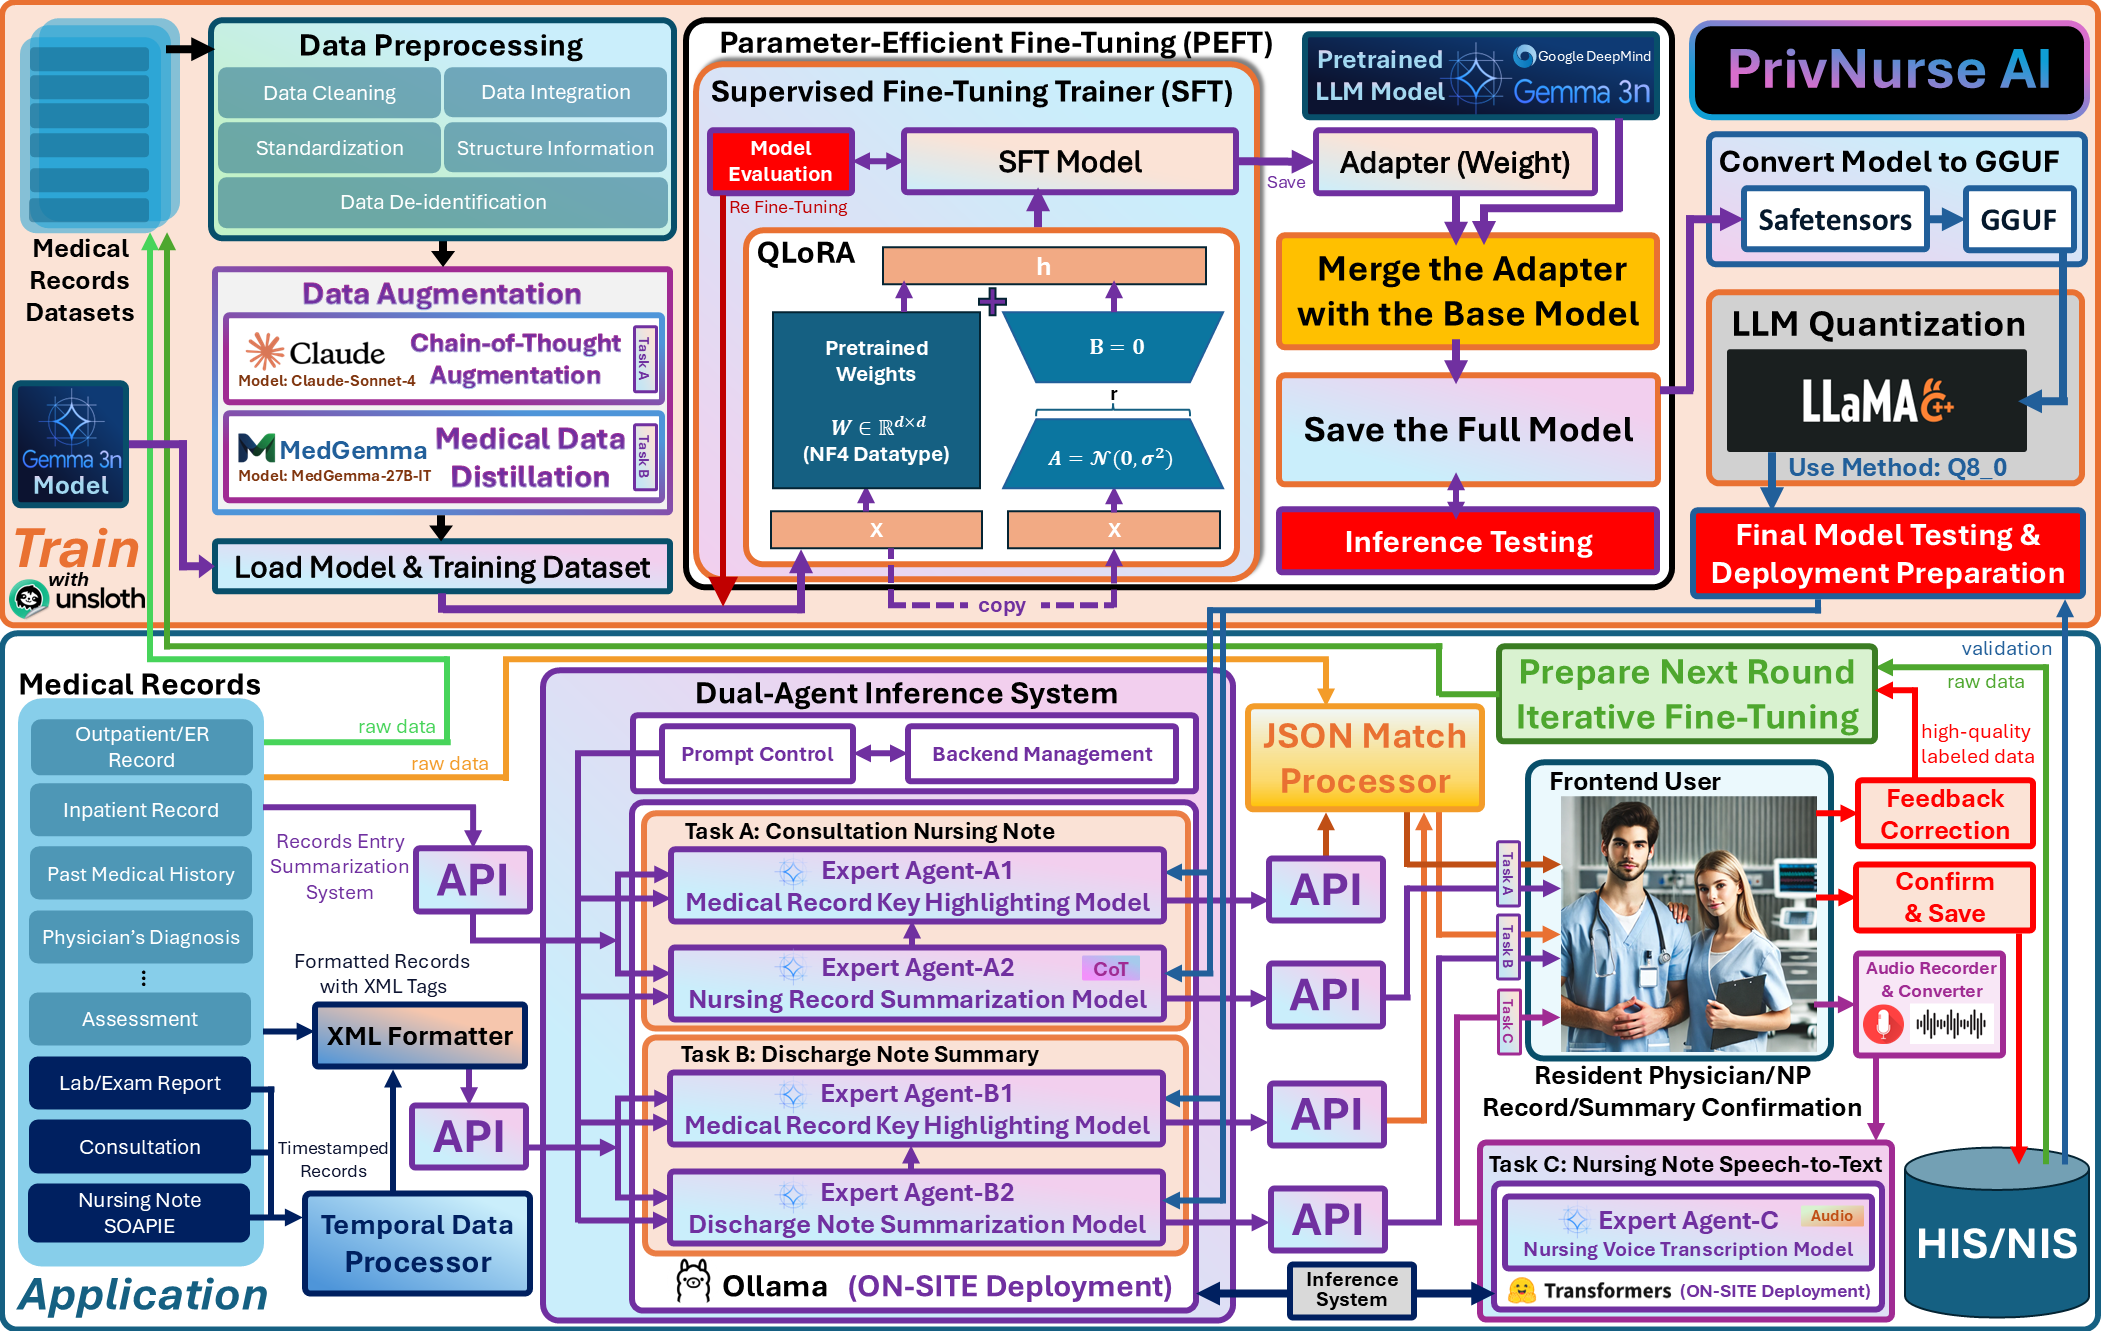
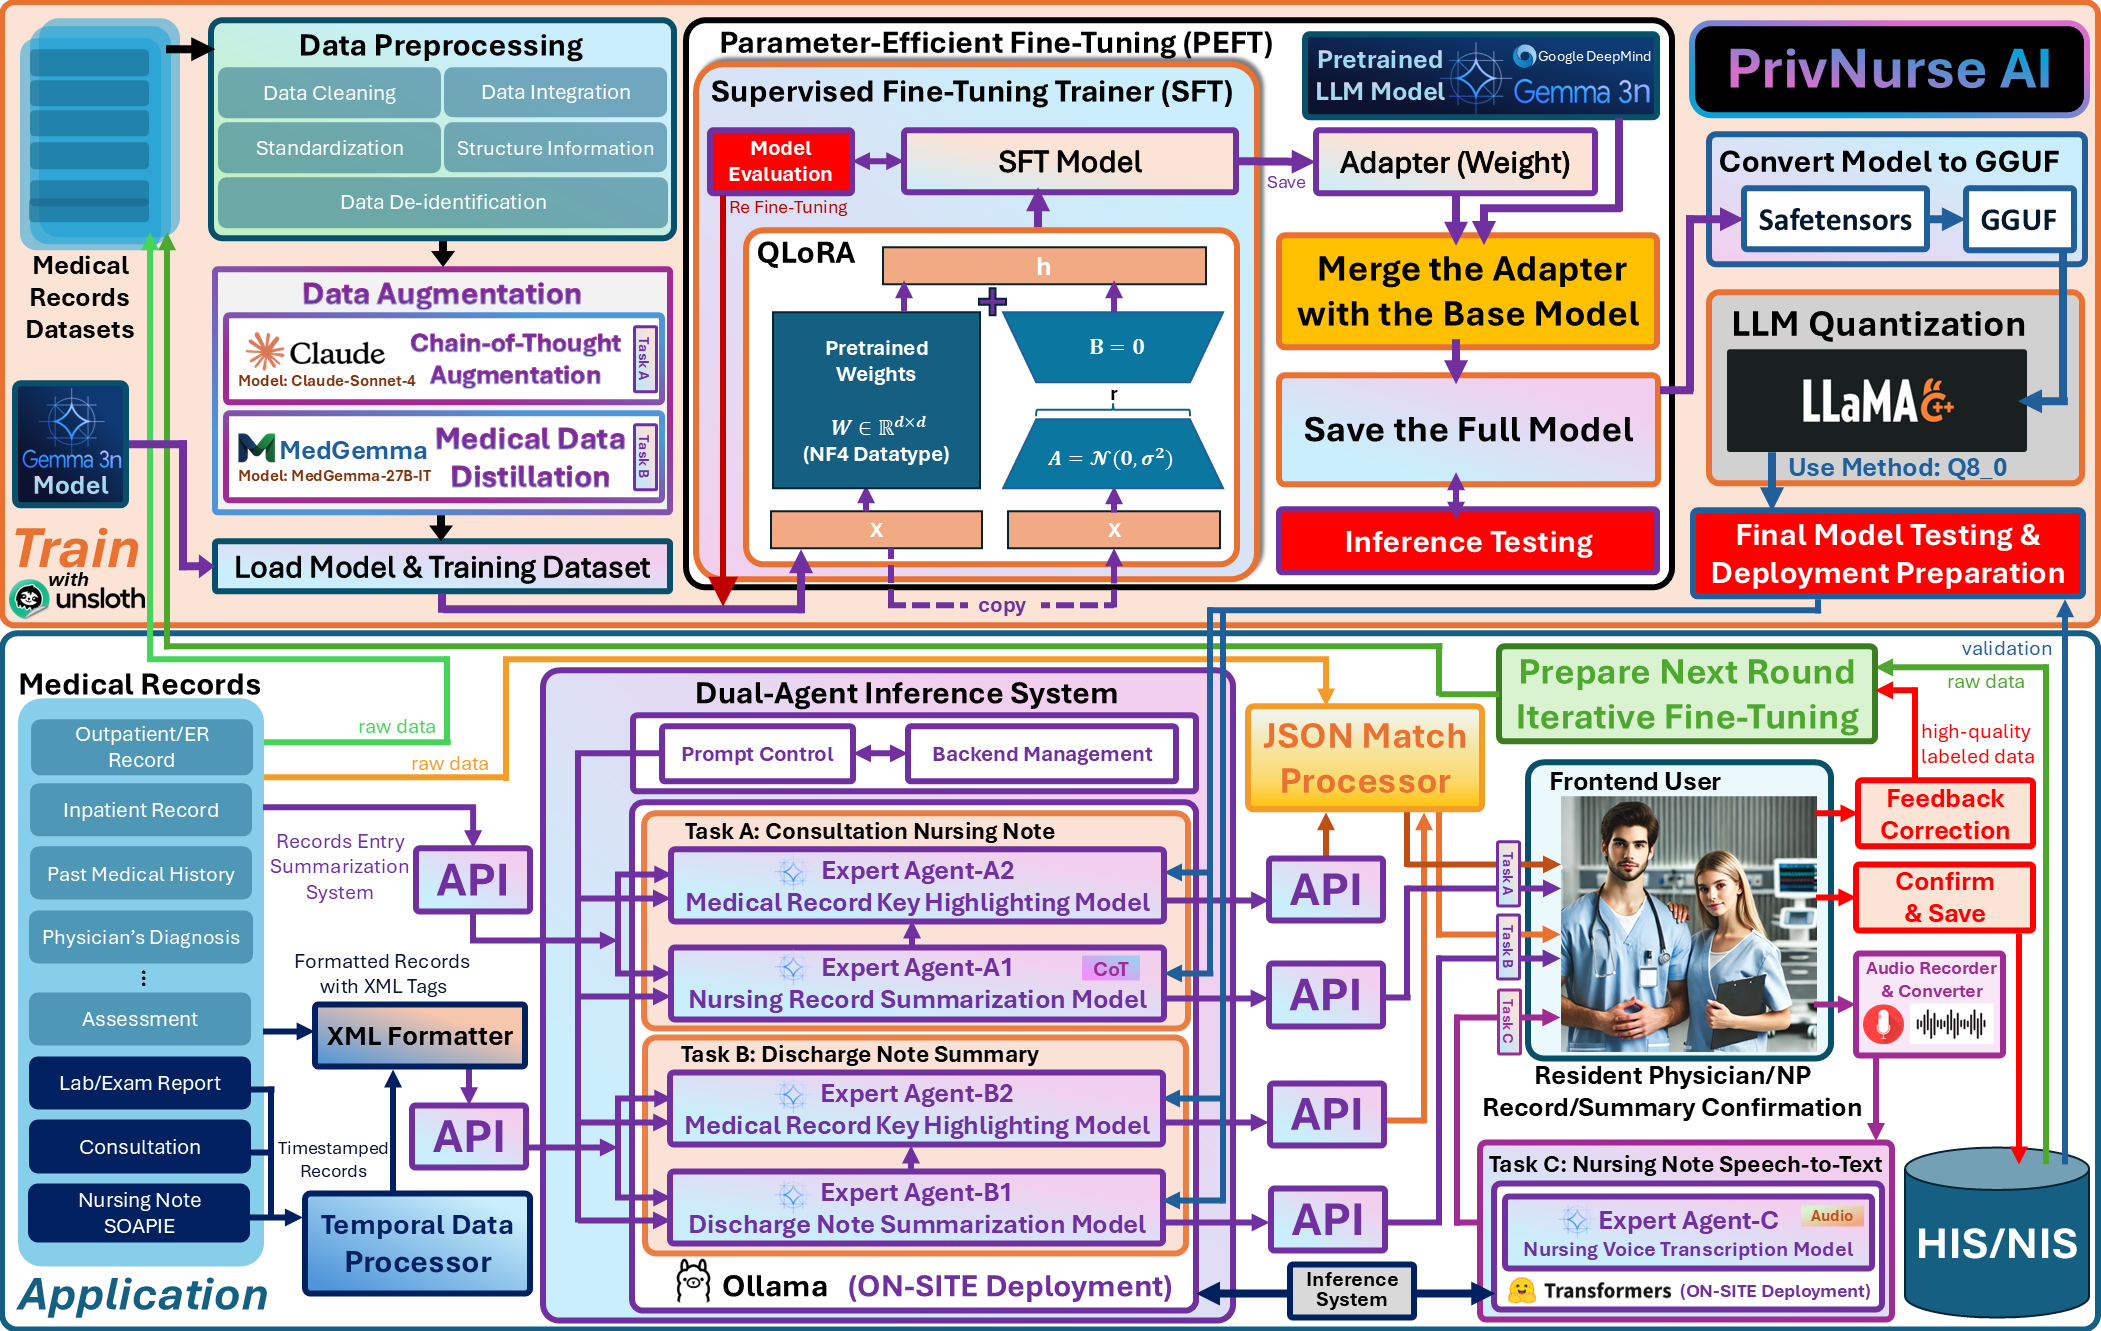
Update

diff --git a/README.md b/README.md
@@ -40,12 +40,12 @@ We load the **Gemma-3n-E4B** base model and our augmented training dataset. The 
 | :--- | :--- | :--- | :--- | :--- |
 | Base Model | unsloth/</br>gemma-3n-E4B-it | unsloth/</br>gemma-3n-E4B-it | unsloth/</br>gemma-3n-E4B-it | unsloth/</br>gemma-3n-E4B-it |
 | LoRA `r` | `32` | `32` | `32` | `32` |
-| LoRA `alpha`| `64` | `64` | `64` | `32` |
+| LoRA `alpha`| `64` | `64` | `32` | `64` |
 | LoRA Dropout | `0` | `0` | `0` | `0` | 
 | Quantization Bits | `4-bit` | `4-bit` | `4-bit` | `4-bit` |
 | Learning Rate| `1e-3` | `1e-3` | `2e-4` | `2e-4` |
 | Total Batch Size | `96` | `96` | `32` | `32` |
-| Epochs | `6` | `6` | `2` | `1` |
+| Epochs | `6` | `6` | `1` | `2` |
 | Optimizer | `adamw_torch_fused`| `adamw_torch_fused`| `adamw_torch_fused`| `adamw_torch_fused` |
 | Max Sequence Length | `8192` | `8192` | `32768` | `32768` |
 | LR Scheduler Type | `linear` |`linear` |`linear` |`linear` |
@@ -75,8 +75,8 @@ For summarization tasks, we utilize a sophisticated dual-agent architecture depl
 
 1.  **Input Formatting:** For Task B (Discharge Summary), which involves time-sensitive data like lab reports and nursing notes, a `Temporal Data Processor` first sorts these records chronologically. All records are then passed to an `XML Formatter` that wraps the data in semantic tags (e.g., `<PhysicianDiagnosis>`, `<LabReport>`). This structured format helps the LLM better comprehend the complex medical data.
 2.  **Agent Interaction:**
-    *   **Agent 2 (The Summarizer):** First, `Nursing Record Summarization Model` (A2/B2) receives the formatted data and generates the clinical summary.
-    *   **Agent 1 (The Highlighter):** The generated summary and the original source text are passed to the `Medical Record Key Highlighting Model` (A1/B1). This agent's sole purpose is to identify which keywords in the source text support the summary. It outputs its findings as a JSON object mapping summary sentences to source keywords.
+    *   **Agent 1 (The Summarizer):** First, `Nursing Record Summarization Model` (A1/B1) receives the formatted data and generates the clinical summary.
+    *   **Agent 2 (The Highlighter):** The generated summary and the original source text are passed to the `Medical Record Key Highlighting Model` (A2/B2). This agent's sole purpose is to identify which keywords in the source text support the summary. It outputs its findings as a JSON object mapping summary sentences to source keywords.
 3.  **Output Processing:** The `JSON Match Processor` uses this JSON to apply highlighting to the original medical record in the user interface. The final output presented to the clinician is the AI-generated summary alongside the source text with key evidence highlighted, providing immediate and intuitive explainability.
 
 #### **Task C: Nursing Note Speech-to-Text**
